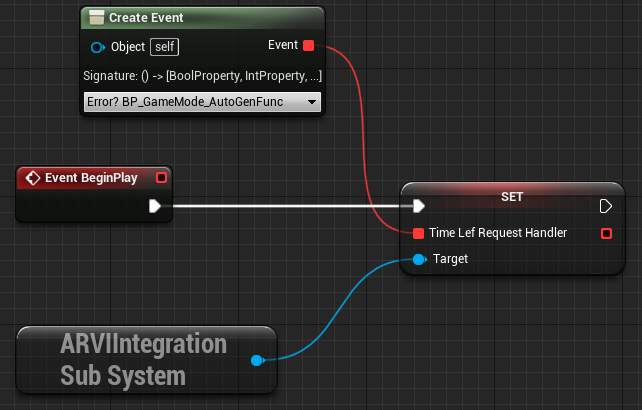
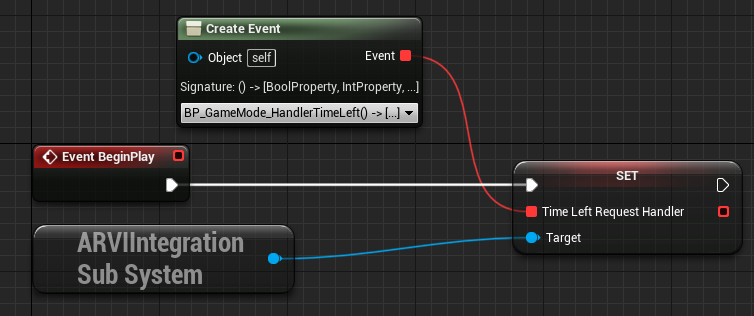
Fixed typo in UE integration

diff --git a/_tabs/integrations-unreal.md b/_tabs/integrations-unreal.md
@@ -178,7 +178,7 @@ void AExampleActor::BeginPlay()
   Super::BeginPlay();
   if (UGameInstance* GameInstance = GetGameInstance())
     if (UARVIIntegrationSubSystem* ArviIntegration = GameInstance->GetSubsystem<UARVIIntegrationSubSystem>())
-      ArviIntegration->TimeLefRequestHandler.BindDynamic(this, &ThisClass::HandlerTimeLeft);
+      ArviIntegration->TimeLeftRequestHandler.BindDynamic(this, &ThisClass::HandlerTimeLeft);
 }
 
 bool AExampleActor::HandlerTimeLeft(int& TimeLeftInSeconds)
